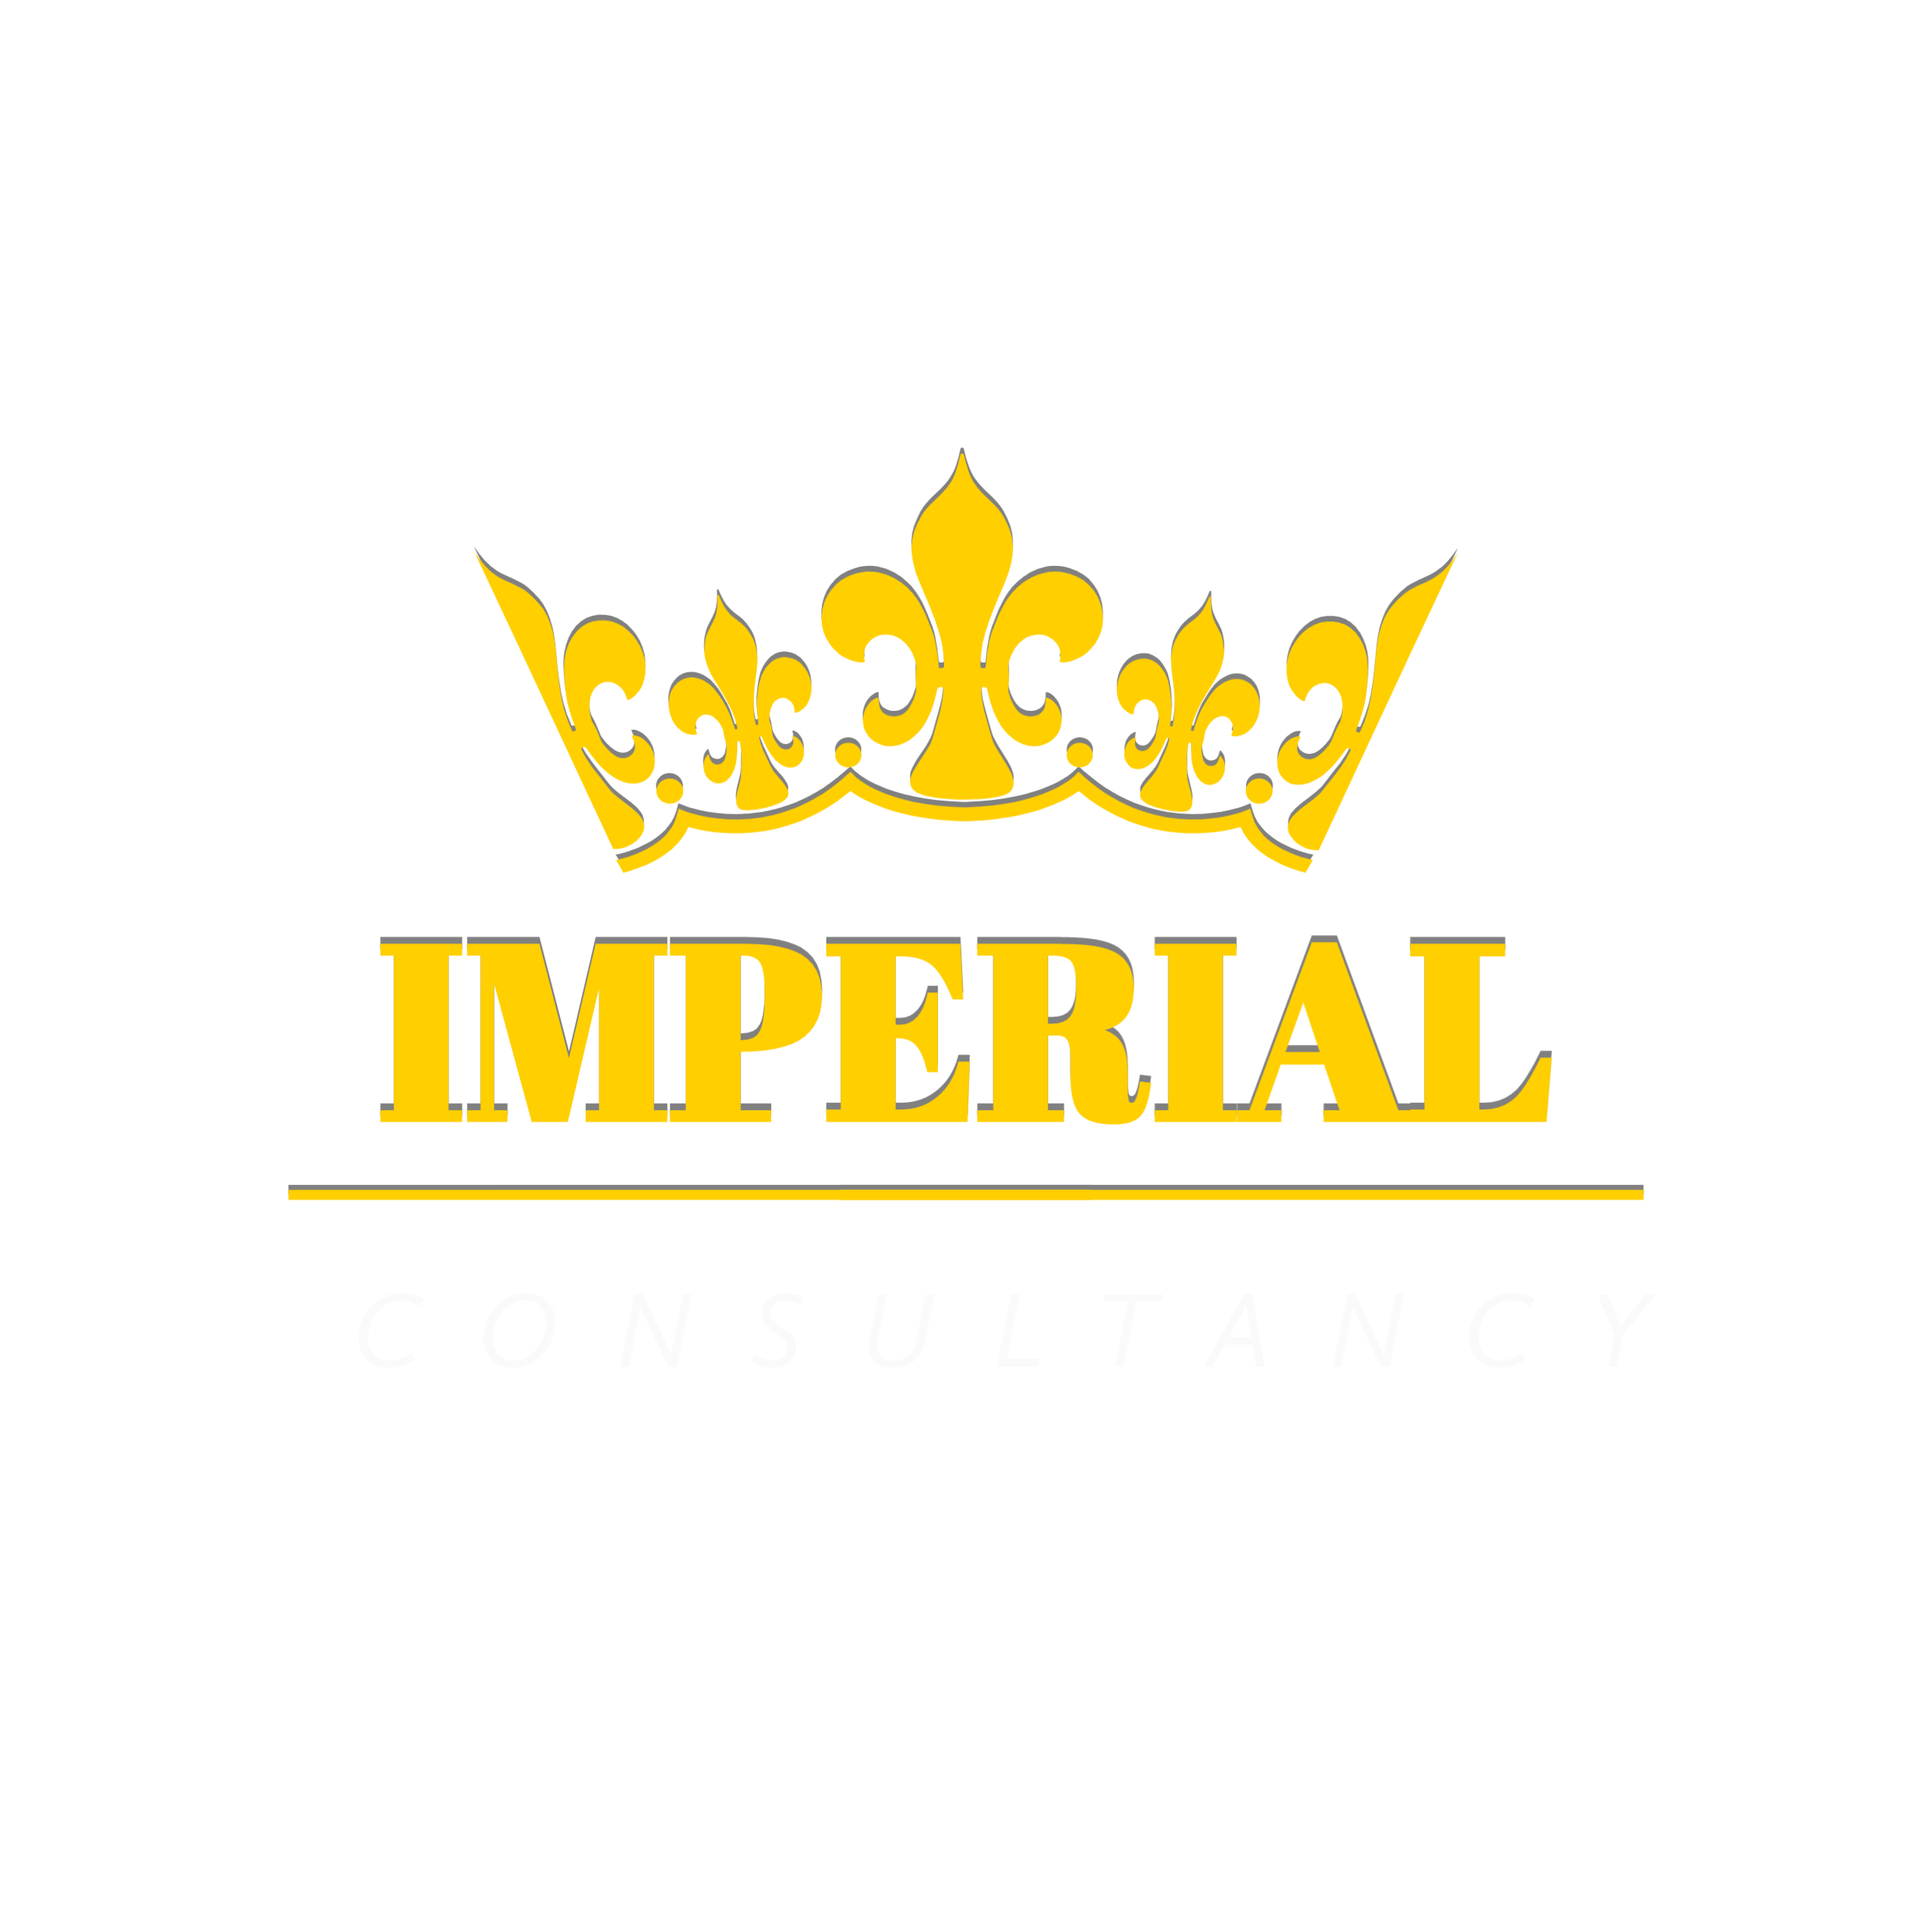
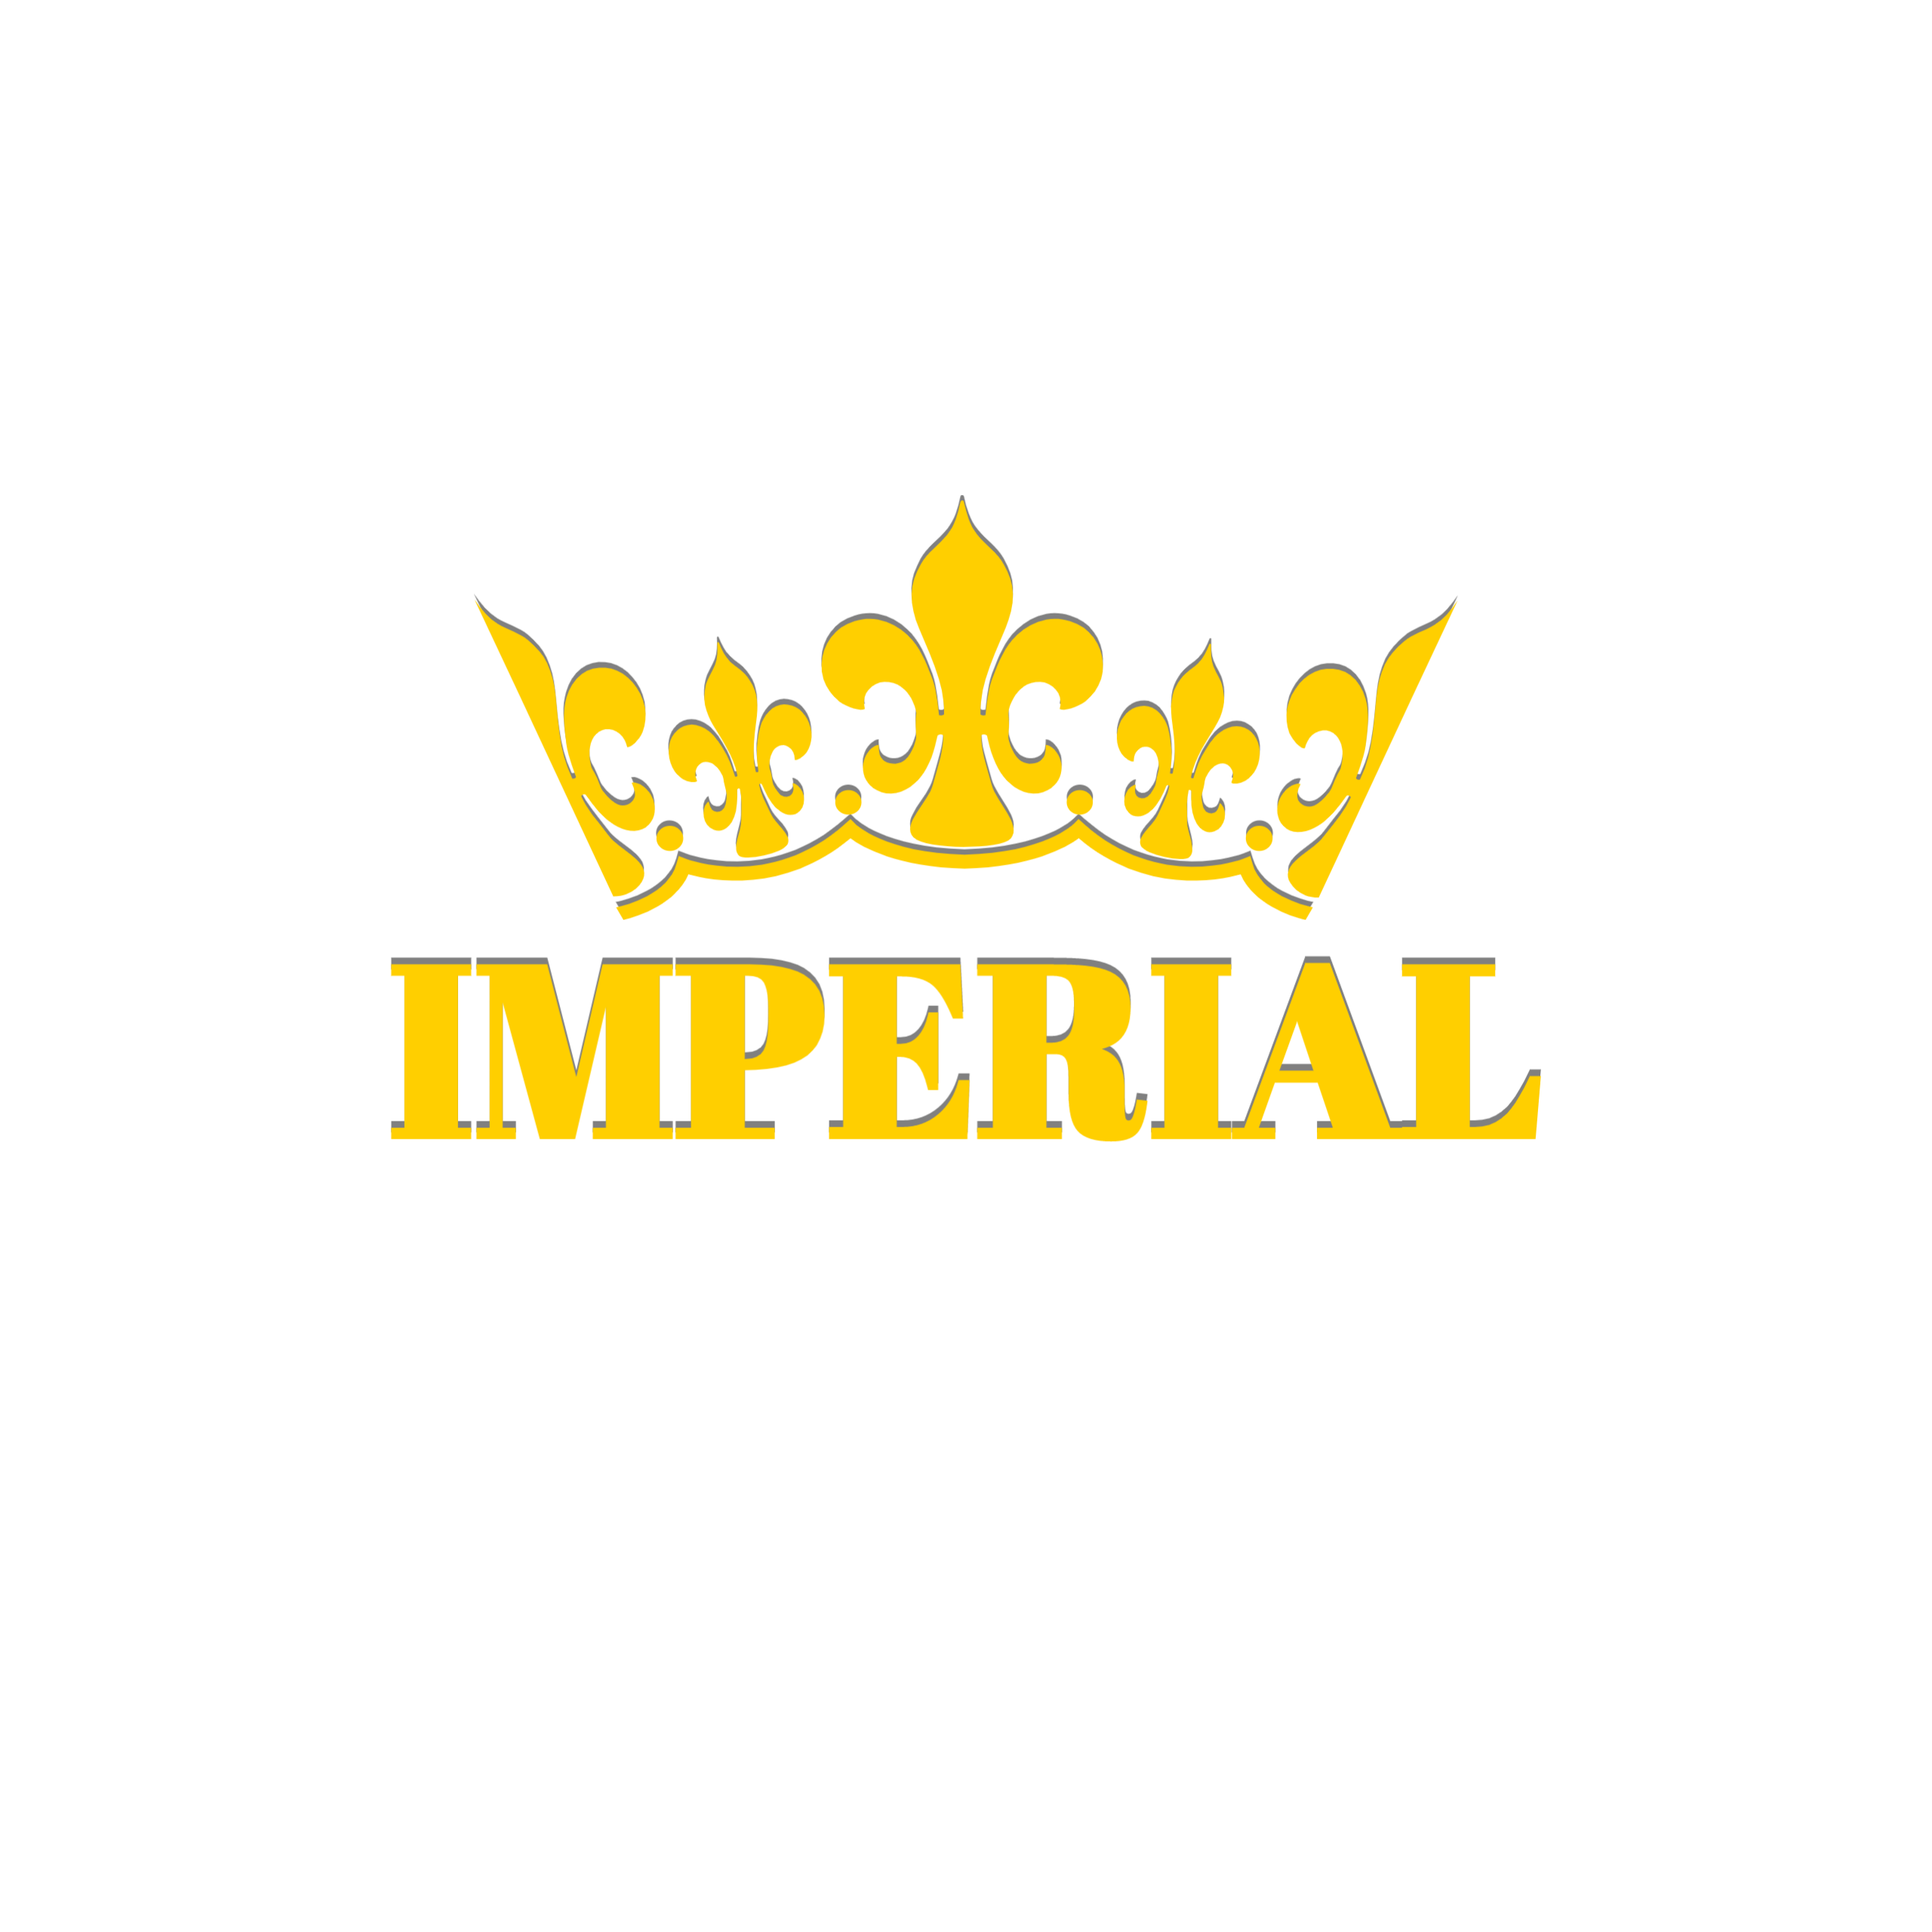
header atualizado

Changed region(s): [[0.1562, 0.2188, 0.8438, 0.625]]

diff --git a/src/pages/index.js b/src/pages/index.js
@@ -2,11 +2,33 @@ import Layout from '../components/Layout'
 
 export default function Index() {
     return <Layout>
-        <p>askjdhasjkdhaskjdhaskjdhaskdjhasj</p>
-        <p>askjdhasjkdhaskjdhaskjdhaskdjhasj</p>
-        <p>askjdhasjkdhaskjdhaskjdhaskdjhasj</p>
-        <p>askjdhasjkdhaskjdhaskjdhaskdjhasj</p>
-        <p>askjdhasjkdhaskjdhaskjdhaskdjhasj</p>
-        <button className="btn btn-primary">Página Home</button>
+                <p>andaisndiansidnaisd</p>
+                <p>andaisndiansidnaisd</p>
+                <p>andaisndiansidnaisd</p>
+                <p>andaisndiansidnaisd</p>
+                <p>andaisndiansidnaisd</p>
+                <p>andaisndiansidnaisd</p>
+                <p>andaisndiansidnaisd</p>
+                <p>andaisndiansidnaisd</p>
+                <p>andaisndiansidnaisd</p>
+                <p>andaisndiansidnaisd</p>
+                <p>andaisndiansidnaisd</p>
+                <p>andaisndiansidnaisd</p>
+                <p>andaisndiansidnaisd</p>
+                <p>andaisndiansidnaisd</p>
+                <p>andaisndiansidnaisd</p>
+                <p>andaisndiansidnaisd</p>
+                <p>andaisndiansidnaisd</p>
+                <p>andaisndiansidnaisd</p>
+                <p>andaisndiansidnaisd</p>
+                <p>andaisndiansidnaisd</p>
+                <p>andaisndiansidnaisd</p>
+                <p>andaisndiansidnaisd</p>
+                <p>andaisndiansidnaisd</p>
+                <p>andaisndiansidnaisd</p>
+                <p>andaisndiansidnaisd</p>
+                <p>andaisndiansidnaisd</p>
+                <p>andaisndiansidnaisd</p>
+v
     </Layout>
 }

diff --git a/src/pages/comeco.js b/src/pages/comeco.js
@@ -2,6 +2,37 @@ import Layout from '../components/Layout'
 
 export default function Index() {
     return <Layout>
-        <button className="btn btn-primary">Começo</button>
+        <p>andaisndiansidnaisd</p>
+        <p>andaisndiansidnaisd</p>
+        <p>andaisndiansidnaisd</p>
+        <p>andaisndiansidnaisd</p>
+        <p>andaisndiansidnaisd</p>
+        <p>andaisndiansidnaisd</p>
+        <p>andaisndiansidnaisd</p>
+        <p>andaisndiansidnaisd</p>
+        <p>andaisndiansidnaisd</p>
+        <p>andaisndiansidnaisd</p>
+        <p>andaisndiansidnaisd</p>
+        <p>andaisndiansidnaisd</p>
+        <p>andaisndiansidnaisd</p>
+        <p>andaisndiansidnaisd</p>
+        <p>andaisndiansidnaisd</p>
+        <p>andaisndiansidnaisd</p>
+        <p>andaisndiansidnaisd</p>
+        <p>andaisndiansidnaisd</p>
+        <p>andaisndiansidnaisd</p>
+        <p>andaisndiansidnaisd</p>
+        <p>andaisndiansidnaisd</p>
+        <p>andaisndiansidnaisd</p>
+        <p>andaisndiansidnaisd</p>
+        <p>andaisndiansidnaisd</p>
+        <p>andaisndiansidnaisd</p>
+        <p>andaisndiansidnaisd</p>
+        <p>andaisndiansidnaisd</p>
+        <p>andaisndiansidnaisd</p>
+        <p>andaisndiansidnaisd</p>
+        <p>andaisndiansidnaisd</p>
+        <p>andaisndiansidnaisd</p>
+       v
     </Layout>
 }

diff --git a/src/pages/carai.js b/src/pages/carai.js
@@ -2,6 +2,34 @@ import Layout from '../components/Layout'
 
 export default function Index() {
     return <Layout>
-        <button className="btn btn-primary">Carai</button>
+        <p>andaisndiansidnaisd</p>
+
+        <p>andaisndiansidnaisd</p>
+        <p>andaisndiansidnaisd</p>
+        <p>andaisndiansidnaisd</p>
+        <p>andaisndiansidnaisd</p>
+        <p>andaisndiansidnaisd</p>
+        <p>andaisndiansidnaisd</p>
+        <p>andaisndiansidnaisd</p>
+        <p>andaisndiansidnaisd</p>
+        <p>andaisndiansidnaisd</p>
+        <p>andaisndiansidnaisd</p>
+        <p>andaisndiansidnaisd</p>
+        <p>andaisndiansidnaisd</p>
+        <p>andaisndiansidnaisd</p>
+        <p>andaisndiansidnaisd</p>
+        <p>andaisndiansidnaisd</p>
+        <p>andaisndiansidnaisd</p>
+        <p>andaisndiansidnaisd</p>
+        <p>andaisndiansidnaisd</p>
+        <p>andaisndiansidnaisd</p>
+        <p>andaisndiansidnaisd</p>
+        <p>andaisndiansidnaisd</p>
+        <p>andaisndiansidnaisd</p>
+        <p>andaisndiansidnaisd</p>
+        <p>andaisndiansidnaisd</p>
+        <p>andaisndiansidnaisd</p>
+        <p>andaisndiansidnaisd</p>
+        <p>andaisndiansidnaisd</p>
     </Layout>
 }

diff --git a/src/components/Header/contatos.js b/src/components/Header/contatos.js
@@ -1,13 +1,28 @@
 import styled from "styled-components";
+import { faFacebookF,faGithub,faInstagram,faWhatsapp } from '@fortawesome/free-brands-svg-icons'
+import { FontAwesomeIcon } from '@fortawesome/react-fontawesome'
+import { fab } from '@fortawesome/free-brands-svg-icons'
 
 export default function Contatos() {
     return (
         <Wrapper>
-            Contatos...
+            
+           <a href="https://facebook.com" target="_blank"> <FontAwesomeIcon icon={[fab, faFacebookF]} /></a>
+            <a href="https://www.github.com/micaiovalente" target="_blank"><FontAwesomeIcon icon={[fab, faGithub]} /></a>
+            <a href="https://www.instagram.com" target="_blank"><FontAwesomeIcon icon={[fab, faInstagram]} /></a>
+            <a href="https://www.whatsapp.com/" target="_blank"><FontAwesomeIcon icon={[fab, faWhatsapp]} /></a>
         </Wrapper>
     )
 }
 
 const Wrapper = styled.div`
-    background-color: yellow;
+    
+    width: 200px;
+    height: 200px;
+    .icone{
+        color: white;
+        font-size: 25px;
+        margin: 12px;
+    }
+    
 `

diff --git a/src/components/Header/navbar.js b/src/components/Header/navbar.js
@@ -2,18 +2,21 @@ import styled from 'styled-components'
 
 export default function Navbar() {
   return <Wrapper>
-    <a href="#">Link 1</a>
-    <a href="#">Link 2</a>
-    <a href="#">Link 3</a>
+    <a href="/">Home</a>
+    <a href="/Who-are-we">Quem Somos</a>
+    <a href="/history">Histórias</a>
+    <a href="/services">Serviços</a>
+    <a href="/products">Produtos</a>
+    <a href="/login">LOGIN</a>
   </Wrapper>
 }
 
 const Wrapper = styled.nav`
-  background: black;
+  background: #ffd000;
   a {
     padding: 1rem;
     display: inline-block;
-    color: white;
+    color: black;
     text-transform: uppercase;
     font-family: 'Times New Roman', Times, serif;
     text-decoration: none;

diff --git a/src/components/Header/index.js b/src/components/Header/index.js
@@ -2,11 +2,13 @@ import styled from "styled-components";
 import Logo from './logo'
 import Contatos from './contatos'
 import Navbar from "./navbar";
+import Calco from "./calco";
 
 export default function Header() {
     return (
         <Wrapper>
             <Top>
+                <Calco/>
                 <Logo />
                 <Contatos />
             </Top>
@@ -16,10 +18,12 @@ export default function Header() {
 }
 
 const Wrapper = styled.div`
-    background-color: blue;
+    background-color: black;
 `
 
 const Top = styled.div`
     display: flex;
     justify-content: space-between;
-`
+    align-items: center;
+    height: 200px;
+` 

diff --git a/src/components/Layout/index.js b/src/components/Layout/index.js
@@ -4,11 +4,13 @@ import Head from 'next/head'
 
 export default function Layout({ children }) {
     return <>
-        <Head>
-            <title>Create Next App</title>
+        <head>
+            <title>Imperial</title>
             <meta name="description" content="Generated by create next app" />
             <link rel="icon" href="/favicon.ico" />
-        </Head>
+            <script src="https://kit.fontawesome.com/5b73c335af.js" 
+            crossorigin="anonymous"></script>
+        </head>
         <Header />
         <main>
             {children}

diff --git a/src/components/Header/calco.js b/src/components/Header/calco.js
@@ -1,0 +1,16 @@
+import styled from "styled-components";
+
+export default function Contatos() {
+    return (
+        <Wrapper>
+           <div></div>
+        </Wrapper>
+    )
+}
+
+const Wrapper = styled.div`
+    
+    width: 200px;
+    height: 200px;
+    
+`

diff --git a/src/components/Header/logo.js b/src/components/Header/logo.js
@@ -9,8 +9,11 @@ export default function Logo() {
 }
 
 const Wrapper = styled.div`
-    background-color: green;
+     margin-left: auto;
+     margin-right: auto;
+      
     img {
-      width: 200px;
+      width: 250px;
+     
     }
 `
